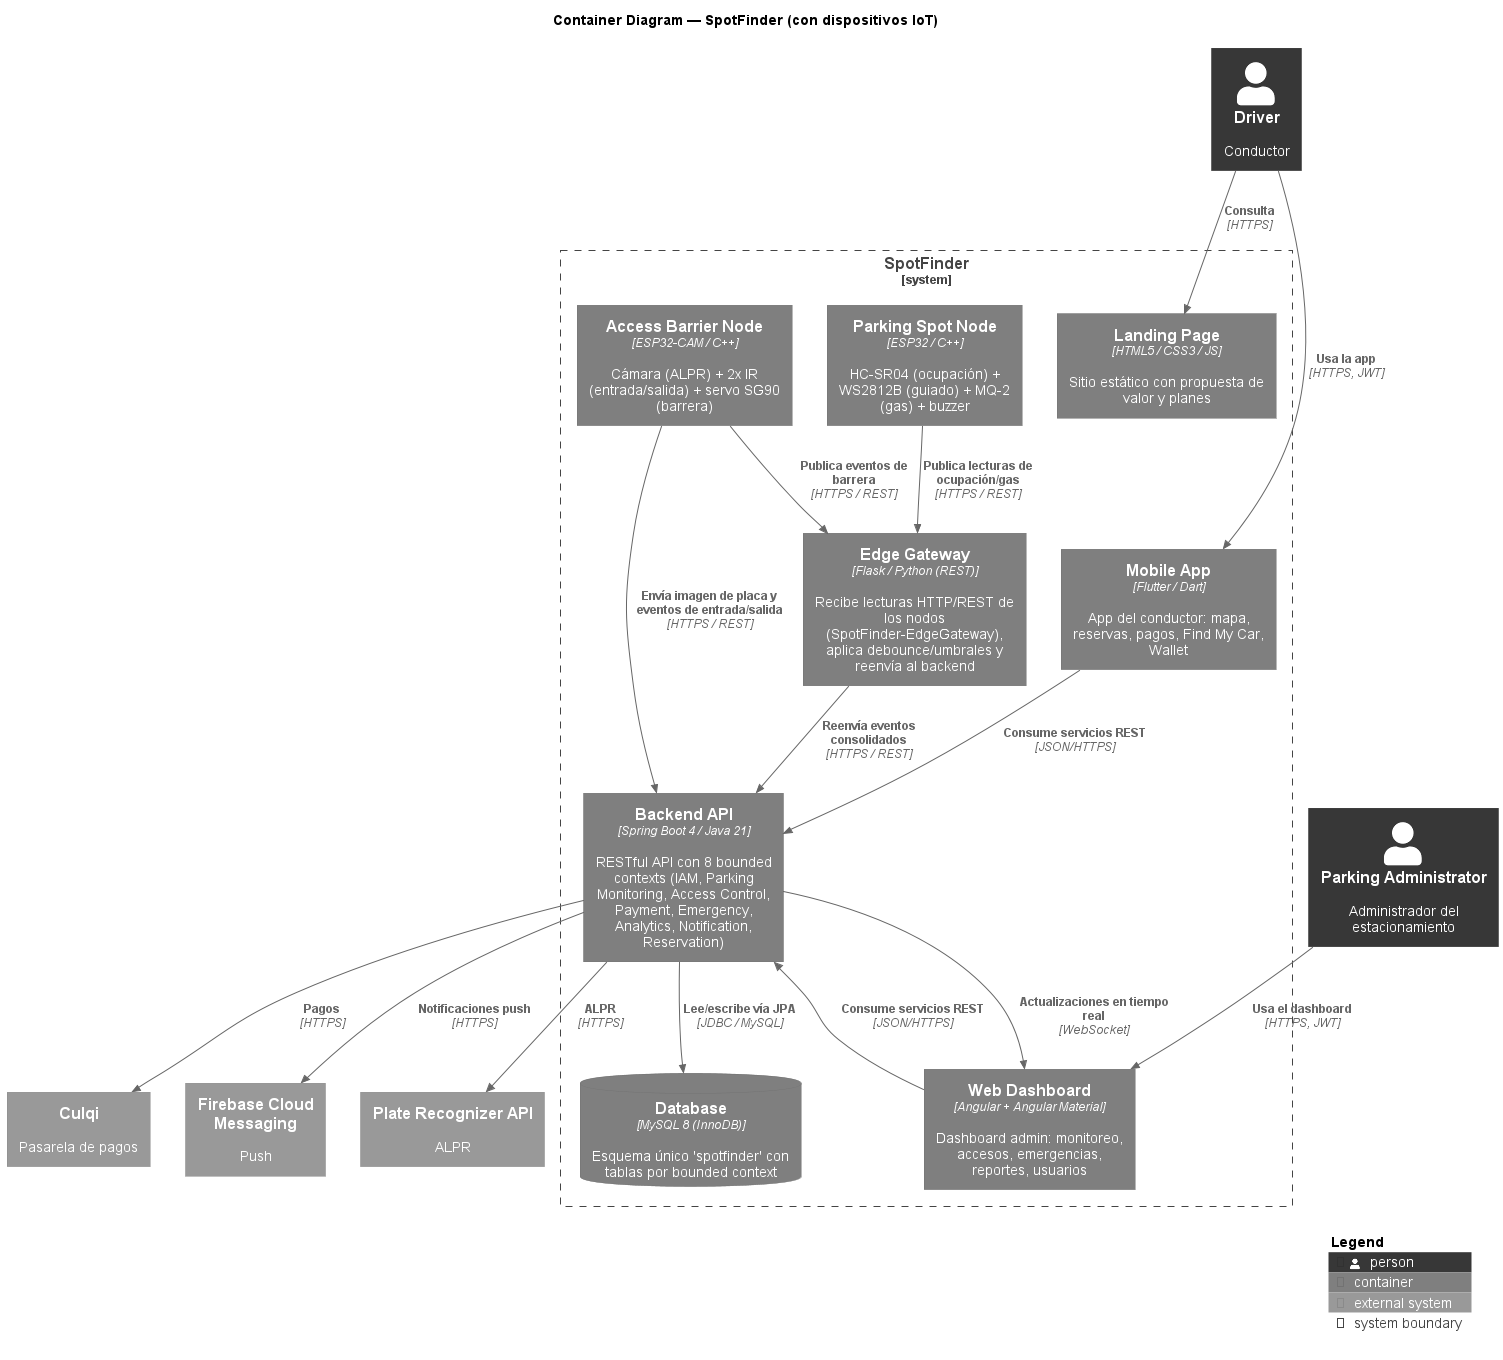
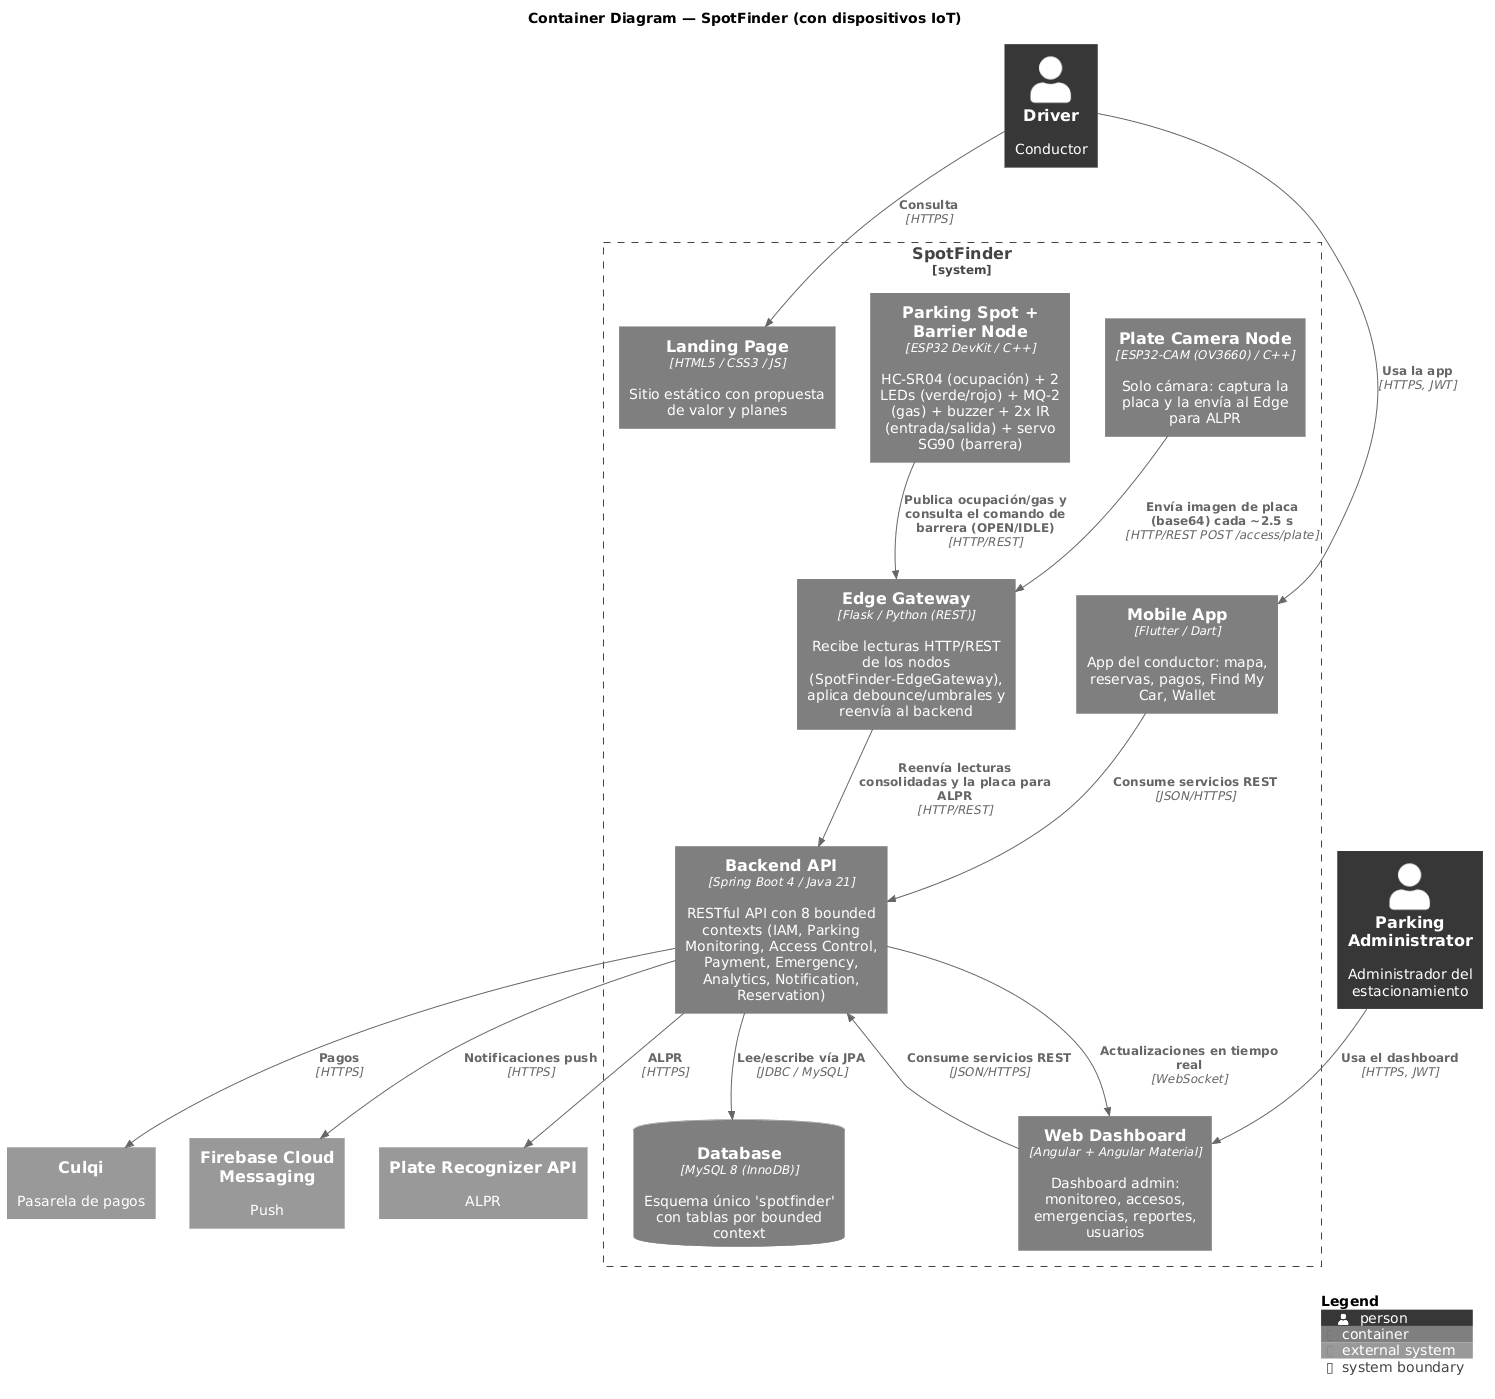
docs(report): update IoT section to Opcion A (split camera/barrier nodes)
- Section 5.6: describe the implemented 'Opcion A' design where the ESP32-CAM
  is a camera-only Plate Camera Node that POSTs to the Edge (/access/plate),
  and the barrier (2x IR + servo) lives on the ESP32 DevKit which polls the
  Edge (GET /access/barrier). Rewrite entry/exit flows as edge-mediated.
- Fix camera sensor OV2640 -> OV3660 across the report.
- Correct barrier pins to the real firmware (servo GPIO26, IR-in 14, IR-out 27).
- Add a hardware-validation note (end-to-end CAM+DevKit+Edge+Backend+Android).
- Regenerate C4 Container + IoT Component PNGs from the updated PlantUML.

diff --git a/README.md b/README.md
@@ -5242,21 +5242,26 @@ Los componentes integrados y sus nodos de conexión son los siguientes:
 
 #### Access Barrier Node (Control de Acceso Vehicular)
 
-Además del Parking Spot Node, la solución incorpora el **Access Barrier Node**, basado en un **ESP32-CAM (AI-Thinker, sensor OV2640)** que añade capacidad de captura de imagen para el reconocimiento de placas (ALPR). Este nodo se ubica en las barreras de entrada y salida del estacionamiento e integra los siguientes componentes adicionales:
+Además del Parking Spot Node, la solución incorpora el **control de acceso vehicular** con reconocimiento de placas (ALPR). En la implementación real se adoptó el **diseño "Opción A" (dividido)**, en el que la capacidad de acceso se reparte entre **dos nodos físicos** coordinados por el Edge Gateway (nunca directamente contra el backend):
+
+- **Plate Camera Node — ESP32-CAM (AI-Thinker, sensor OV3660):** dedicado **exclusivamente a la cámara**. Captura la imagen de la placa y la envía en base64 al Edge (`POST /api/v1/access/plate`, con `X-API-Key`) cada ~2.5 s. No controla ni la barrera ni los sensores IR.
+- **Grupo de barrera (2× IR de entrada/salida + servo SG90) montado sobre el Parking Spot Node (ESP32 DevKit):** el DevKit consulta al Edge (`GET /api/v1/access/barrier`) y, cuando el Edge responde `OPEN` (porque el backend reconoció una placa y creó la sesión), abre la barrera si su IR de entrada detecta el vehículo.
+
+De esta forma el Edge desacopla la cámara del actuador: la CAM solo "ve" la placa, el backend hace el ALPR y crea la sesión, y el DevKit ejecuta la apertura física. Los componentes adicionales del grupo de barrera (sobre el DevKit) son:
 
 7. **Servomotor SG90 (Barrera):** Actuador que levanta y baja el brazo de la barrera. Tres conexiones:
-   - **Señal (naranja)** → **GPIO 14** del ESP32-CAM (PWM mediante la librería ESP32Servo).
-   - **V+ (rojo)** → **fuente externa 5 V** (no del pin del ESP32-CAM, para evitar brown-out durante el movimiento).
-   - **GND (marrón)** → **tierra común** entre la fuente de 5 V y el ESP32-CAM.
+   - **Señal (naranja)** → **GPIO 26** del ESP32 DevKit (PWM mediante la librería ESP32Servo).
+   - **V+ (rojo)** → **fuente externa 5 V** (no del pin del ESP32, para evitar brown-out durante el movimiento; se comprobó en hardware que el pico del servo corrompe el flasheo si comparte alimentación).
+   - **GND (marrón)** → **tierra común** entre la fuente de 5 V y el ESP32.
 
    El servo opera entre 0° (barrera cerrada) y 90° (barrera abierta). Se recomienda un capacitor de 1000 µF entre 5 V y GND para amortiguar los picos de corriente del servo (~500–700 mA).
 
 8. **Sensores Infrarrojos FC-51 (×2, Entrada y Salida):** Detectores de presencia que disparan el flujo de acceso. Cada uno tiene tres conexiones:
-   - **VCC** → **3.3 V** del ESP32-CAM (alimentar a 3.3 V, no a 5 V, para que la salida sea compatible con el GPIO).
+   - **VCC** → **3.3 V** del ESP32 (alimentar a 3.3 V, no a 5 V, para que la salida sea compatible con el GPIO).
    - **GND** → GND.
-   - **OUT** → **GPIO 13** (IR Entrada) y **GPIO 15** (IR Salida); la salida va a LOW cuando detecta un obstáculo.
+   - **OUT** → **GPIO 14** (IR Entrada) y **GPIO 27** (IR Salida); la salida va a LOW cuando detecta un obstáculo.
 
-   El IR de entrada dispara la captura de placa y la creación de sesión; el IR de salida confirma el paso del vehículo y la verificación de pago antes de cerrar la barrera.
+   El IR de entrada dispara la consulta del comando de barrera al Edge y la apertura del servo; el IR de salida confirma el paso del vehículo antes de cerrar la barrera.
 
 
 #### Resumen de Conexiones (Pinout Table)
@@ -5281,18 +5286,19 @@ Además del Parking Spot Node, la solución incorpora el **Access Barrier Node**
 
 
 
-**Pinout del Access Barrier Node (ESP32-CAM).** En la simulación de Wokwi (ESP32 DevKit) los pines difieren por las restricciones de GPIO del ESP32-CAM:
+**Pinout del grupo de barrera (sobre el ESP32 DevKit).** Bajo la Opción A el servo y los dos IR viven en el DevKit; estos son los GPIO reales usados por el firmware (`build_config.h`). La columna Wokwi refleja los mismos pines en la simulación:
 
-| Componente | Pin del componente | GPIO físico (ESP32-CAM) | GPIO simulación (Wokwi) | Notas |
+| Componente | Pin del componente | GPIO real (ESP32 DevKit) | GPIO simulación (Wokwi) | Notas |
 |---|---|---|---|---|
-| Servo SG90 | Señal | GPIO 14 | GPIO 26 | PWM (ESP32Servo) |
+| Servo SG90 | Señal | GPIO 26 | GPIO 26 | PWM (ESP32Servo) |
 | Servo SG90 | V+ | 5V externo | 5V | riel separado, no del MCU |
 | Servo SG90 | GND | GND común | GND | tierra compartida |
-| IR Entrada (FC-51) | OUT | GPIO 13 | GPIO 14 | LOW = vehículo detectado |
+| IR Entrada (FC-51) | OUT | GPIO 14 | GPIO 14 | LOW = vehículo detectado |
 | IR Entrada (FC-51) | VCC / GND | 3V3 / GND | 3V3 / GND | alimentar a 3.3 V |
-| IR Salida (FC-51) | OUT | GPIO 15 | GPIO 27 | LOW = vehículo detectado |
+| IR Salida (FC-51) | OUT | GPIO 27 | GPIO 27 | LOW = vehículo detectado |
 | IR Salida (FC-51) | VCC / GND | 3V3 / GND | 3V3 / GND | |
-| ESP32-CAM (cámara) | OV2640 | bus dedicado | — (no simulable) | captura de placa para ALPR |
+
+El **Plate Camera Node** es un nodo físico aparte (ESP32-CAM, sensor **OV3660**, bus de cámara dedicado, no simulable en Wokwi) que solo captura la placa y la envía al Edge para ALPR.
 
 **Esquemático actualizado del prototipo (Wokwi):** incluye el Parking Spot Node (HC-SR04, WS2812B, MQ-2, buzzer, botón) y el Access Barrier Node (servo SG90 y los dos sensores IR de entrada/salida).
 
@@ -5344,19 +5350,21 @@ El hardware cubre interacciones físicas que se sincronizan con las vistas de la
 - **Paso 2:** El nodo borra las credenciales Wi-Fi almacenadas y reinicia en modo provisioning.
 - **Paso 3:** El LED parpadea en **Azul `#1A82FF`** hasta que el técnico complete el emparejamiento desde la app de configuración.
 
-**6. Flujo de Ingreso Vehicular (Access Barrier Node — Happy Path):**
+**6. Flujo de Ingreso Vehicular (Opción A, edge-mediated — Happy Path):**
 
-- **Paso 1:** Un vehículo llega a la barrera de entrada y el sensor IR de entrada (GPIO 13) detecta su presencia (`LOW`).
-- **Paso 2:** El ESP32-CAM enciende el LED flash y captura la imagen de la placa.
-- **Paso 3:** El nodo envía la imagen a `POST /api/v1/access/entries` (o, en el modo sin cámara, crea la sesión con `POST /api/v1/parking-sessions` usando la placa registrada).
-- **Paso 4:** El backend reconoce la placa vía Plate Recognizer, crea la `VehicleSession` y responde `201 Created`.
-- **Paso 5:** El nodo abre la barrera (servo a 90°), espera a que el IR de salida confirme el paso del vehículo y cierra la barrera (servo a 0°).
+- **Paso 1:** El **Plate Camera Node (ESP32-CAM)** captura la placa periódicamente (~2.5 s) y la envía al Edge: `POST /api/v1/access/plate` (imagen base64, cabecera `X-API-Key`).
+- **Paso 2:** El Edge reenvía la imagen al backend (`POST /api/v1/access/entries`). El backend reconoce la placa vía **Plate Recognizer**, crea la `VehicleSession` y responde `201 Created`.
+- **Paso 3:** Al recibir el 201, el Edge levanta el comando **`OPEN`** durante una ventana de **8 s** (`GET /api/v1/access/barrier` → `{command: OPEN, plate}`).
+- **Paso 4:** En paralelo, el **DevKit** detecta con su IR de entrada (GPIO 14, `LOW`) que hay un vehículo y consulta `GET /api/v1/access/barrier`.
+- **Paso 5:** Si el comando es `OPEN`, el DevKit abre la barrera (servo GPIO 26 → 90°); el IR de salida (GPIO 27) confirma el paso y la barrera se cierra (servo → 0°).
 
-**7. Flujo de Salida Vehicular con Verificación de Pago (Unhappy Path incluido):**
+> **Validado en hardware (jul. 2026):** flujo probado extremo a extremo con la CAM y el DevKit en la misma red Wi-Fi 2.4 GHz, el Edge en la laptop y el backend Spring Boot + MySQL 8. Se confirmó `POST /access/plate → 200`, creación de sesión (`ABC-123` en modo *stub* del ALPR), `GET /access/barrier → OPEN` y la lectura del comando por el DevKit. La app móvil Flutter mostró la sesión activa `ABC-123` y el "Ingreso confirmado" consumiendo el mismo backend.
 
-- **Paso 1:** El vehículo llega a la barrera de salida y el sensor IR de salida (GPIO 15) detecta su presencia.
-- **Paso 2:** El nodo consulta el estado de la sesión vía `GET /api/v1/parking-sessions/{id}` y lee `paymentStatus`.
-- **Paso 3 (Happy Path):** Si el estado es `PAID`, el nodo invoca `PATCH /api/v1/parking-sessions/{id}/end`, abre la barrera y cierra la sesión.
+**7. Flujo de Salida Vehicular con Verificación de Pago (diseño; Unhappy Path incluido):**
+
+- **Paso 1:** El vehículo llega a la barrera de salida y el sensor IR de salida (GPIO 27) detecta su presencia.
+- **Paso 2:** Se consulta el estado de la sesión (`GET /api/v1/parking-sessions/{id}`) y se lee `paymentStatus`.
+- **Paso 3 (Happy Path):** Si el estado es `PAID`, se cierra la sesión (`PATCH /api/v1/parking-sessions/{id}/end`) y se abre la barrera.
 - **Paso 3 (Unhappy Path):** Si el estado es `PENDING`, la barrera **permanece cerrada** y el buzzer emite un tono de aviso; el conductor debe completar el pago desde la app móvil antes de reintentar la salida.
 
 ### Diagrama del Dispositivo (Embedded App)
